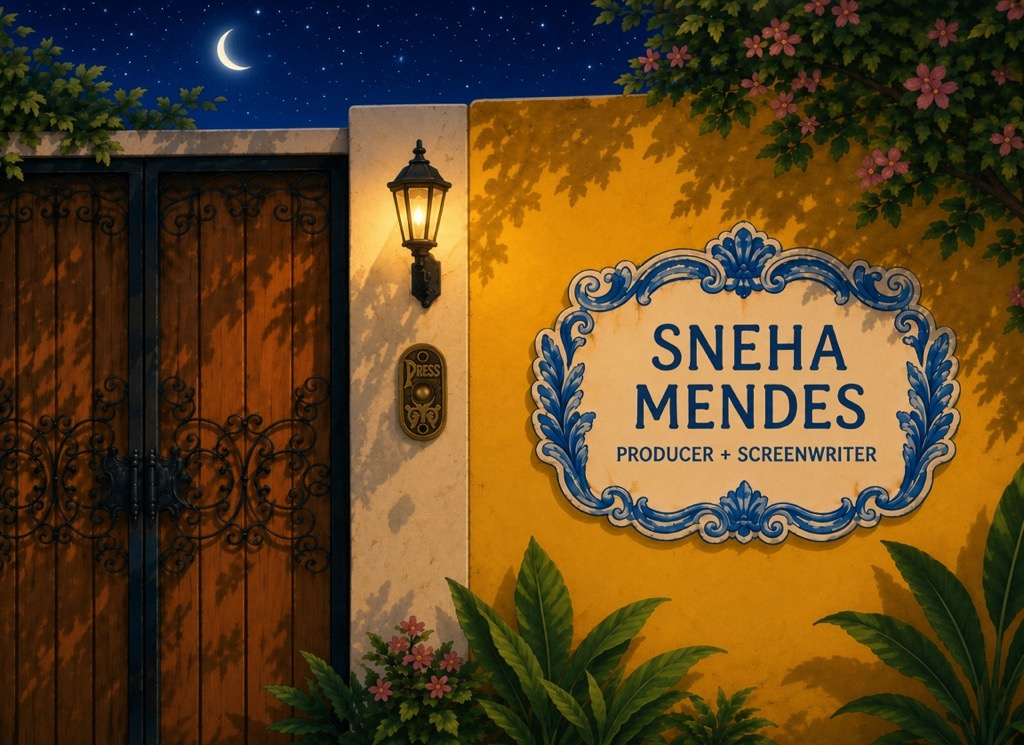
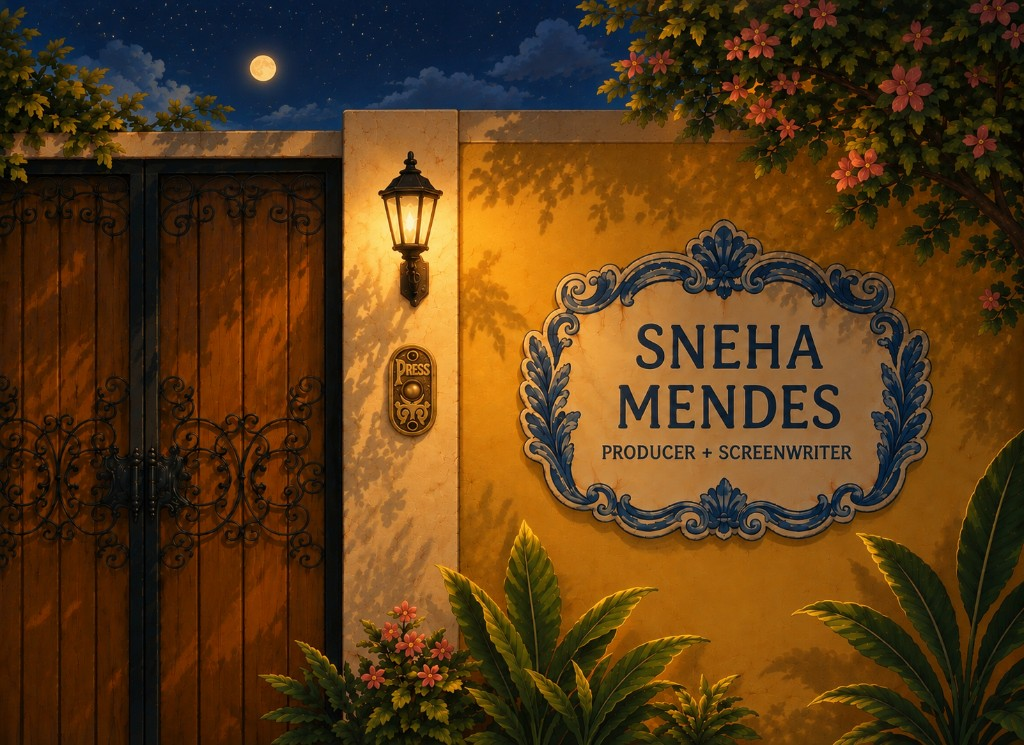
Swap in the new den and bedroom rooms, fix the doorbell spot, and drop the Entryway link.
Claude-Session: https://claude.ai/code/session_017koNWicPBPEdH2ca8Ra37E

diff --git a/index.html b/index.html
@@ -14,7 +14,7 @@
       href="https://fonts.googleapis.com/css2?family=Architects+Daughter&display=swap"
       rel="stylesheet"
     />
-    <link rel="stylesheet" href="css/styles.css?v=night-sky1" />
+    <link rel="stylesheet" href="css/styles.css?v=nav-entry1" />
     <script>document.documentElement.classList.add("js");</script>
   </head>
   <body class="page-house">
@@ -166,7 +166,7 @@
           href="work.html?filter=writing"
           aria-label="Writing work"
         >
-          <img src="assets/room-den-v4.jpg" data-night-src="assets/room-den-v4-night.jpg" alt="Sneha’s writing den, with bookshelves, a laptop on the coffee table, and a High School Musical pillow" width="1024" height="1024" />
+          <img src="assets/room-den-v4.jpg?v=den6" alt="Sneha’s writing den, with bookshelves, a laptop and tea on the coffee table, and a High School Musical pillow" width="1024" height="1024" />
           <span class="entrance-overlay" aria-hidden="true"></span>
           <span class="entrance-cta" aria-hidden="true">Writing work</span>
         </a>
@@ -175,7 +175,7 @@
 
       <div class="house-panel house-bedroom">
         <a href="about.html">
-          <img src="assets/room-bedroom-v4.png" data-night-src="assets/room-bedroom-v4-night.jpg" alt="" width="1024" height="576" />
+          <img src="assets/room-bedroom-v5.jpg?v=bed5" alt="Sneha’s bedroom, with a bed, a desk, and posters for High School Musical, The Summer I Turned Pretty, and Lemonade" width="1024" height="576" />
         </a>
         <span class="house-caption">Sneha’s bedroom</span>
         <button class="room-hotspot bedroom-hsm" type="button">

diff --git a/css/styles.css b/css/styles.css
@@ -48,8 +48,9 @@ body.page-house {
 }
 
 body.page-entrance {
-  height: 100dvh;
-  overflow: hidden;
+  height: auto;
+  min-height: 100dvh;
+  overflow: auto;
 }
 
 img {
@@ -199,9 +200,9 @@ a {
 
 .entrance {
   position: relative;
-  flex: 1;
-  min-height: 0;
+  flex: 0 0 auto;
   width: 100%;
+  aspect-ratio: 1024 / 745;
   display: block;
   overflow: hidden;
   border-radius: 4px;
@@ -1380,24 +1381,24 @@ html:not(.js) .entrance:hover .entrance-cta {
 }
 
 .bedroom-hsm {
-  left: 47.5%;
-  top: 5%;
-  width: 10%;
-  height: 26%;
+  left: 51.5%;
+  top: 6%;
+  width: 8.6%;
+  height: 21%;
 }
 
 .bedroom-tsitp {
-  left: 38%;
-  top: 7%;
-  width: 9%;
-  height: 22%;
+  left: 41.2%;
+  top: 9%;
+  width: 8%;
+  height: 19%;
 }
 
 .bedroom-lemonade {
-  left: 37.4%;
-  top: 29.5%;
-  width: 10%;
-  height: 25%;
+  left: 41%;
+  top: 31.5%;
+  width: 8.4%;
+  height: 21%;
 }
 
 .board-northern {
@@ -1966,18 +1967,18 @@ html:not(.js) .entrance:hover .entrance-cta {
   }
 
   .bedroom-hsm {
-    width: 14%;
-    height: 28%;
+    width: 10%;
+    height: 23%;
   }
 
   .bedroom-tsitp {
-    width: 13%;
-    height: 24%;
+    width: 9.4%;
+    height: 21%;
   }
 
   .bedroom-lemonade {
-    width: 13%;
-    height: 26%;
+    width: 9.6%;
+    height: 23%;
   }
 
   .board-northern {

diff --git a/entrance.html b/entrance.html
@@ -14,7 +14,7 @@
       href="https://fonts.googleapis.com/css2?family=Architects+Daughter&display=swap"
       rel="stylesheet"
     />
-    <link rel="stylesheet" href="css/styles.css?v=entrance-v4" />
+    <link rel="stylesheet" href="css/styles.css?v=nav-entry1" />
     <script>document.documentElement.classList.add("js");</script>
   </head>
   <body class="page-entrance">
@@ -35,8 +35,8 @@
     <div class="entrance">
       <img
         class="entrance-image"
-        src="assets/entrance-v4.jpg"
-        data-night-src="assets/entrance-v4-night.jpg"
+        src="assets/entrance-v4.jpg?v=gate5"
+        data-night-src="assets/entrance-v4-night.jpg?v=gate5"
         alt="A wooden gate, a Press doorbell on the wall, and a tiled sign that reads Sneha Mendes, producer and screenwriter"
         width="1024"
         height="745"
@@ -77,7 +77,7 @@
       </nav>
     </footer>
     <script src="js/site-menu.js"></script>
-    <script src="js/entrance-bell.js?v=press-bell"></script>
+    <script src="js/entrance-bell.js?v=press-bell2"></script>
     <script src="js/day-night.js"></script>
   </body>
 </html>

diff --git a/contact.html b/contact.html
@@ -10,7 +10,7 @@
       href="https://fonts.googleapis.com/css2?family=Architects+Daughter&display=swap"
       rel="stylesheet"
     />
-    <link rel="stylesheet" href="css/styles.css?v=night-sky1" />
+    <link rel="stylesheet" href="css/styles.css?v=nav-entry1" />
     <script>document.documentElement.classList.add("js");</script>
   </head>
   <body class="page-inner page-contact">

diff --git a/about.html b/about.html
@@ -10,7 +10,7 @@
       href="https://fonts.googleapis.com/css2?family=Architects+Daughter&display=swap"
       rel="stylesheet"
     />
-    <link rel="stylesheet" href="css/styles.css?v=night-sky1" />
+    <link rel="stylesheet" href="css/styles.css?v=nav-entry1" />
     <script>document.documentElement.classList.add("js");</script>
   </head>
   <body class="page-inner page-about">

diff --git a/work.html b/work.html
@@ -10,7 +10,7 @@
       href="https://fonts.googleapis.com/css2?family=Architects+Daughter&display=swap"
       rel="stylesheet"
     />
-    <link rel="stylesheet" href="css/styles.css?v=work-cards7" />
+    <link rel="stylesheet" href="css/styles.css?v=nav-entry1" />
     <script>document.documentElement.classList.add("js");</script>
   </head>
   <body class="page-work">

diff --git a/project.html b/project.html
@@ -10,7 +10,7 @@
       href="https://fonts.googleapis.com/css2?family=Architects+Daughter&display=swap"
       rel="stylesheet"
     />
-    <link rel="stylesheet" href="css/styles.css?v=footer3" />
+    <link rel="stylesheet" href="css/styles.css?v=nav-entry1" />
     <script>document.documentElement.classList.add("js");</script>
   </head>
   <body class="page-work">

diff --git a/js/entrance-bell.js b/js/entrance-bell.js
@@ -5,7 +5,7 @@ const bell = document.querySelector(".doorbell");
 const go = document.querySelector(".doorbell-enter");
 
 if (entrance && image && spot && bell && go) {
-  const BELL = { x: 0.416, y: 0.515, w: 0.06, h: 0.16 };
+  const BELL = { x: 0.413, y: 0.515, w: 0.06, h: 0.16 };
 
   function parsePos(value) {
     const n = Number.parseFloat(value);
